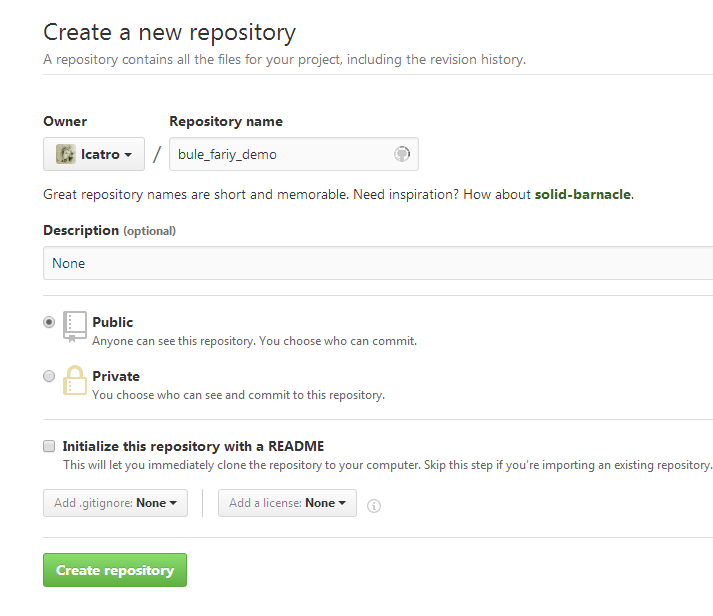
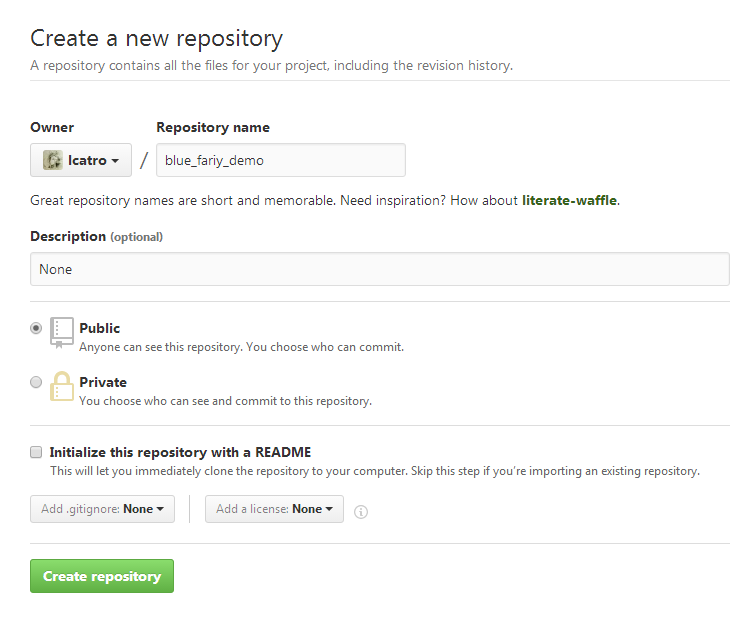
update readme

diff --git a/readme.md b/readme.md
@@ -1,7 +1,40 @@
 
-## 为什么我会写bule_fariy.py
+## 为什么我会写blue_fariy.py
 
   `并不是所有人都愿意和他人分享自己所拥有的东西`<br/>
   
   很多时候,我们希望使用github 来托管自己的代码,但是又并不希望自己的代码共享出去,如果要真的这样做的话,需要创建github 私有项目,并不是每个人都愿意为此付费(其实我也没这个需求),所以能不能在git push 把代码推送到github 之前把我们写好的代码都加密呢?答案是肯定的..<br/>
+
+
+## 如何使用blue_fariy.py
+
+  示例项目地址:https://github.com/lcatro/blue_fariy_demo<br/>
+
+  首先,我们创建一个空项目<br/>
+
+![create_repo](https://raw.githubusercontent.com/lcatro/blue_fariy/master/demo_picture/create_repo.png)<br/>
+
+  项目里面有一个文件,*readme.md* <br/>
+
+![demo_example](https://raw.githubusercontent.com/lcatro/blue_fariy/master/demo_picture/demo_example.png)<br/>
+
+  接下来做第一次commit ,这次commit 里我们只上传python 文件<br/>
+
+![first_commit_command](https://raw.githubusercontent.com/lcatro/blue_fariy/master/demo_picture/first_commit_command.png)<br/>
+
+  上传结束之后,github 项目里只有这个python 文件<br/>
+
+![first_commit_success](https://raw.githubusercontent.com/lcatro/blue_fariy/master/demo_picture/first_commit_success.png)<br/>
+
+  然后使用`blue_fariy.py` ,过程很简单,第一步输入命令:`.\\blue_fariy.py push` 生成bat 文件,第二步输入命令:`.\\push.bat` 进行推送<br/>
+  
+![push_to_github](https://raw.githubusercontent.com/lcatro/blue_fariy/master/demo_picture/push_to_github.png)<br/>
+
+  同时,在目录下面创建了三个新文件,一个是由`blue_fariy.py` 生成的bat 文件,它负责对工程进行加密和推送部分;另一个文件是RSA 的密钥文件,用于解开`packet.pck` ,最后我们就是把这个加密过后的文件上传到github <br/>
+
+![new_files](https://raw.githubusercontent.com/lcatro/blue_fariy/master/demo_picture/new_files.png)<br/>
+
+  上传到github 之后,只剩下python 文件和被加密的项目文件<br/>
+  
+![using_blue_fariy_push](https://raw.githubusercontent.com/lcatro/blue_fariy/master/demo_picture/using_blue_fariy_push.png)<br/>
 
